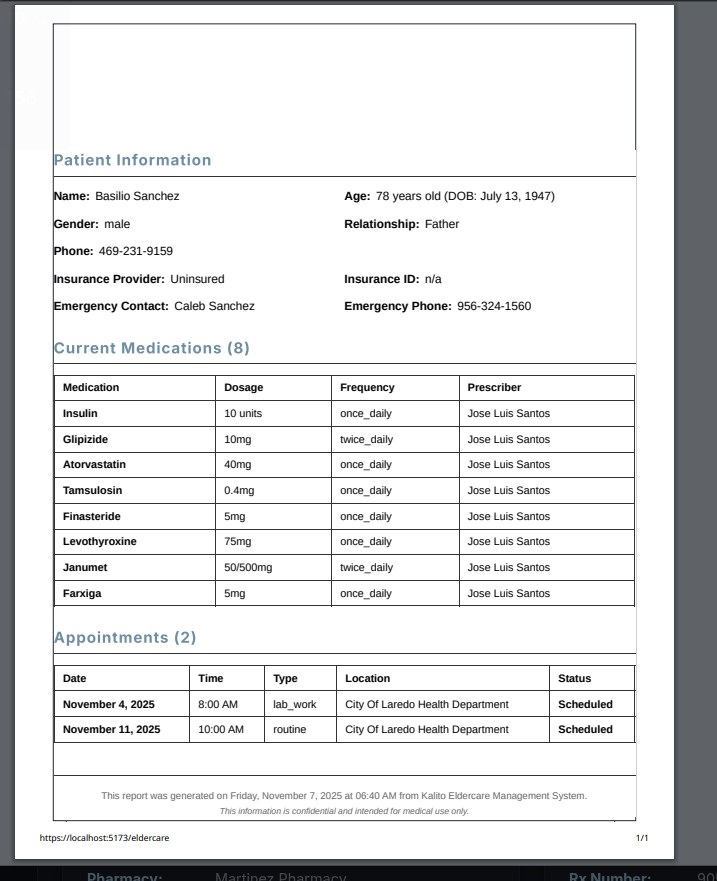
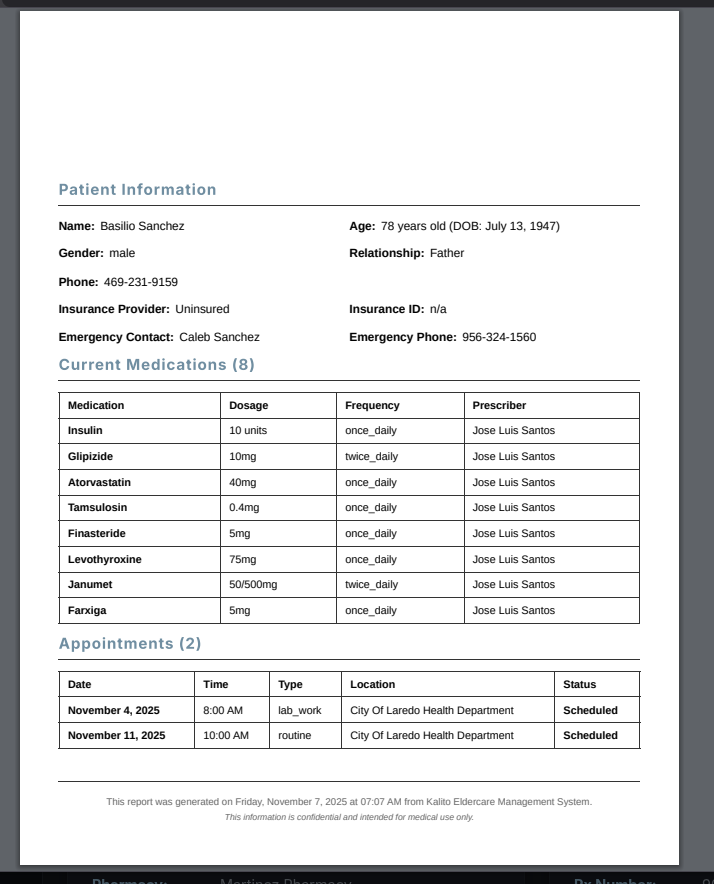
fixed patient print

Changed region(s): [[0.0, 0.0, 1.0, 1.0], [0.4622, 0.2145, 0.8011, 0.3984], [0.8627, 0.2145, 0.8936, 0.2452]]

diff --git a/frontend/src/components/eldercare/PrintablePatientReport.vue b/frontend/src/components/eldercare/PrintablePatientReport.vue
@@ -1,3 +1,4 @@
+
 <template>
   <div class="printable-report" ref="printableContent">
       <h2 class="section-title">Patient Information</h2>
@@ -281,6 +282,11 @@ defineExpose({
 
 /* Print - table-based list layout */
 @media print {
+  @page {
+    size: letter;
+    margin: 0;
+  }
+
   .printable-report {
     position: static !important;
     left: 0 !important;
@@ -292,18 +298,13 @@ defineExpose({
     opacity: 1 !important;
     display: block !important;
     width: 100%;
-    margin: 0;
-    padding: 0;
+    margin: 0 !important;
+    padding: 0.25in 0.5in 0.5in 0.5in !important;
     font-family: Arial, sans-serif;
     font-size: 11pt;
     line-height: 1.3;
     color: #000;
     background: #fff;
-  }
-
-  @page {
-    size: letter;
-    margin: 0.5in;
   }
 
   .section-title {

diff --git a/frontend/dev-dist/sw.js b/frontend/dev-dist/sw.js
@@ -82,7 +82,7 @@ define(['./workbox-f8b0af05'], (function (workbox) { 'use strict';
     "revision": "3ca0b8505b4bec776b69afdba2768812"
   }, {
     "url": "index.html",
-    "revision": "0.1f20g1st8ro"
+    "revision": "0.n5mafq2tj68"
   }], {});
   workbox.cleanupOutdatedCaches();
   workbox.registerRoute(new workbox.NavigationRoute(workbox.createHandlerBoundToURL("index.html"), {

diff --git a/frontend/src/components/eldercare/PatientDetailModal.vue b/frontend/src/components/eldercare/PatientDetailModal.vue
@@ -274,9 +274,14 @@ function printModal() {
 }
 
 @media print {
+  .patient-detail-modal {
+    all: unset !important;
+    display: block !important;
+  }
+  
   /* Hide everything in the modal during print */
   .modal-header,
-  .modal-body > *:not(.print-only-wrapper) {
+  .modal-body {
     display: none !important;
   }
   
